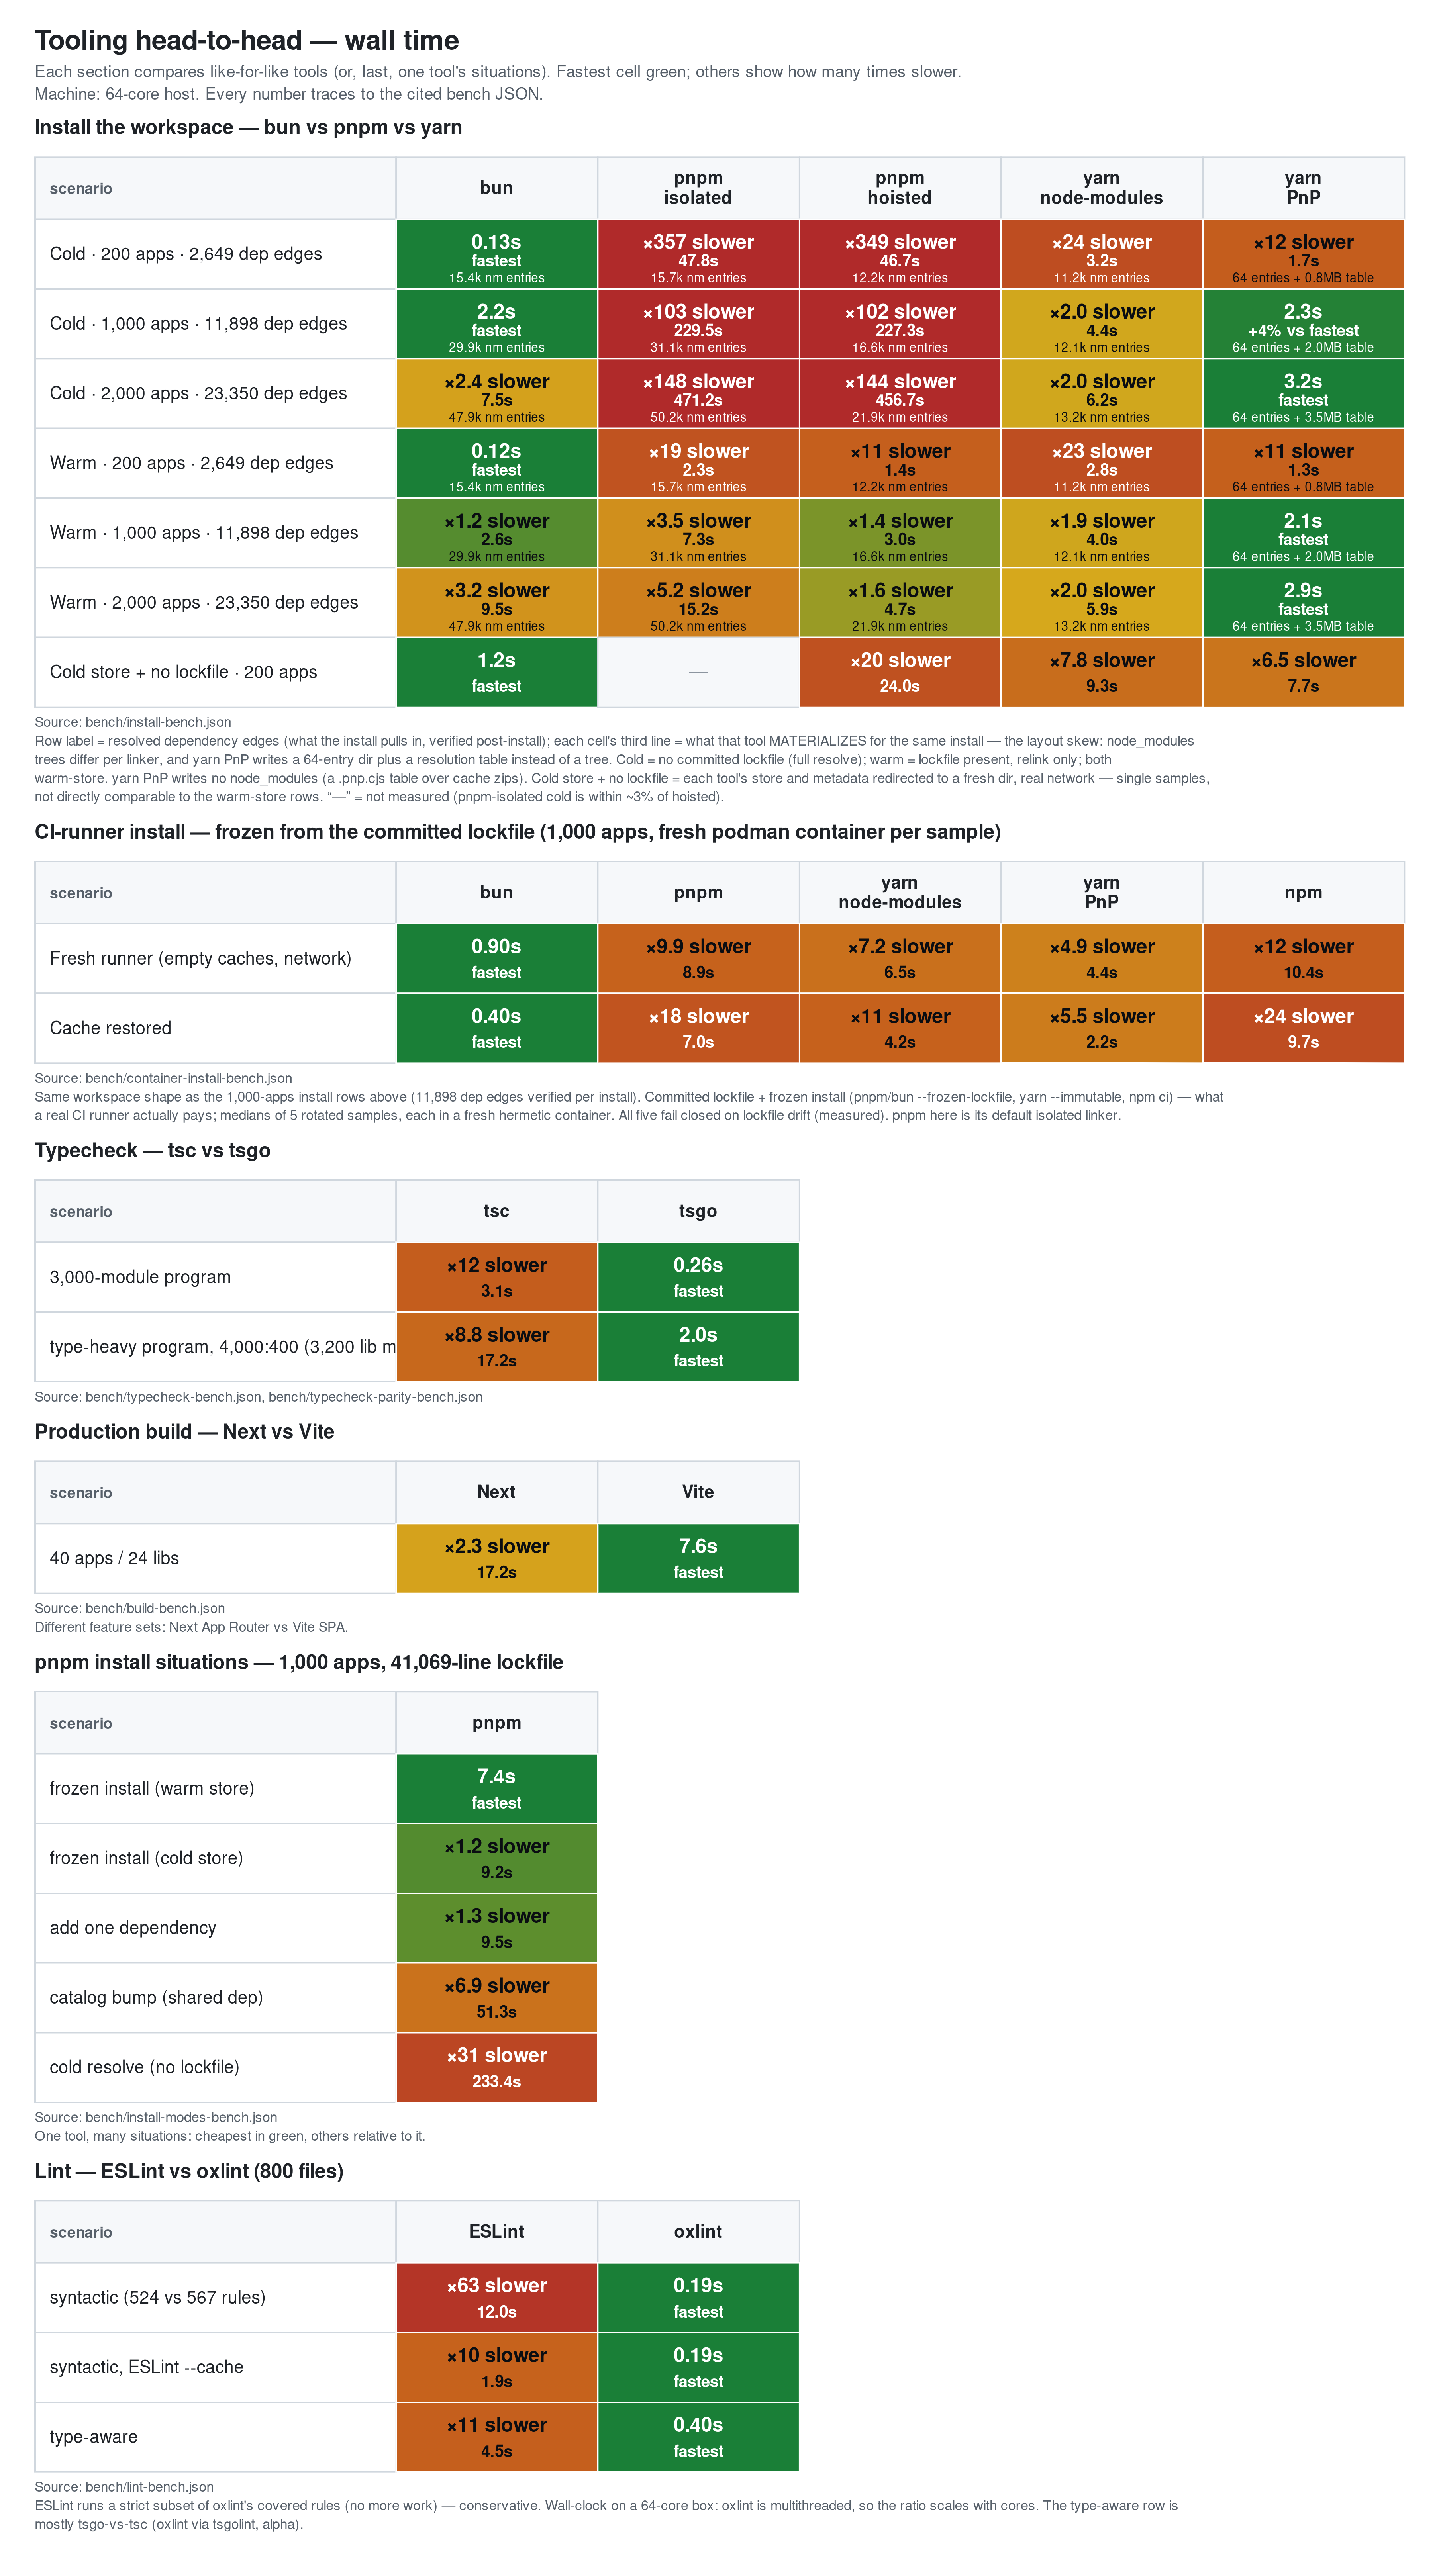
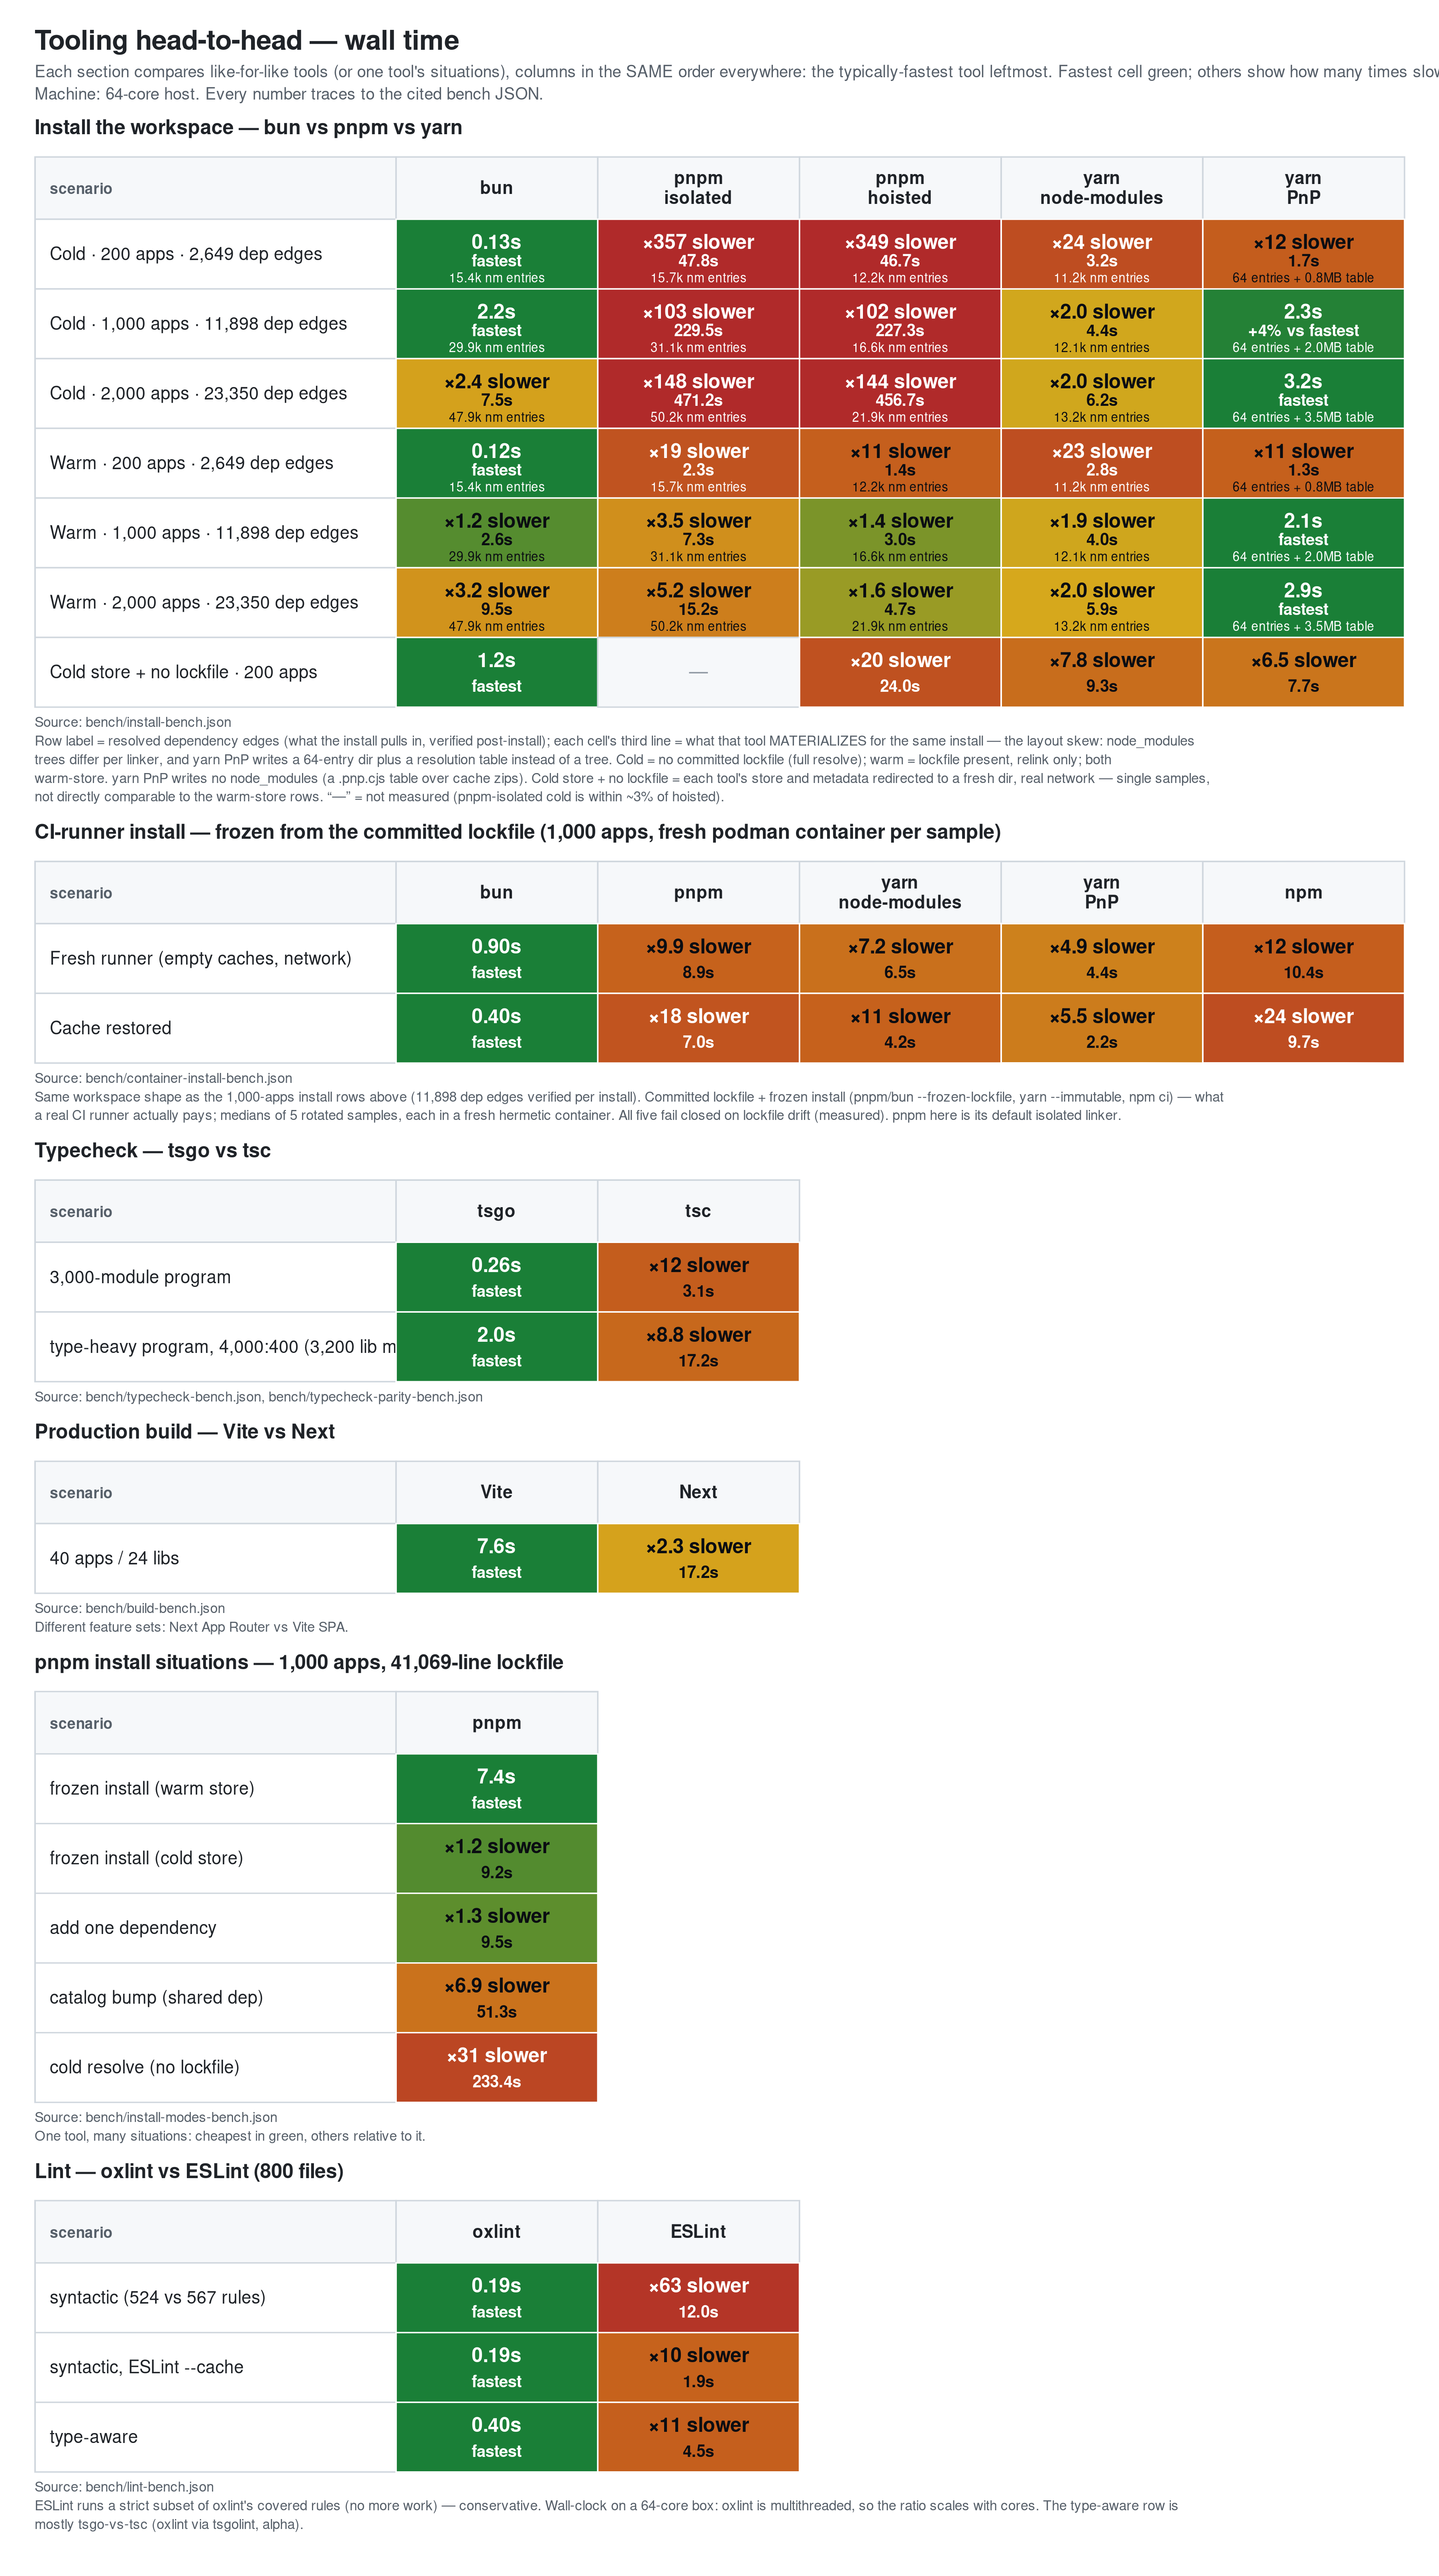
tool-comparison chart: one column order — fastest/recommended tool leftmost in every section (#35)
tsgo/tsc, Vite/Next, oxlint/ESLint sections reordered to match the install
sections' bun-first convention, so the green column no longer flips sides
between sections; subtitle states the rule; CLAUDE.md conventions gain the
fixed cross-chart order (bun,pnpm,yarn,npm · tsgo,tsc,Flow · Vite,Next ·
oxlint,ESLint).

Claude-Session: https://claude.ai/code/session_016TJMzkr87UoE2Rv3GZ5c6X

Changed region(s): [[0.2481, 0.4685, 0.5581, 0.6246], [0.2481, 0.8432, 0.5581, 0.9682], [0.155, 0.5309, 0.2171, 0.5622]]

diff --git a/CLAUDE.md b/CLAUDE.md
@@ -593,6 +593,10 @@ ride the same `.github/workflows/charts.yml` byte-gate.
 
 **Comparison-chart conventions (every chart generator follows these):**
 
+- **One column order.** Across sections and charts alike, the typically-fastest /
+  recommended tool sits leftmost and the alternatives keep one fixed order (bun, pnpm,
+  yarn, npm · tsgo, tsc, Flow · Vite, Next · oxlint, ESLint) — the green column must
+  not flip sides between sections.
 - **One visual grammar.** Heat-table sections; per row the FASTEST cell is green and every
   other cell's headline is its multiple of that best ("×N slower") — the number IS the cell,
   not a footnote. Same green→amber→orange→red ramp anchored at ×1/×2/×10/×100 in